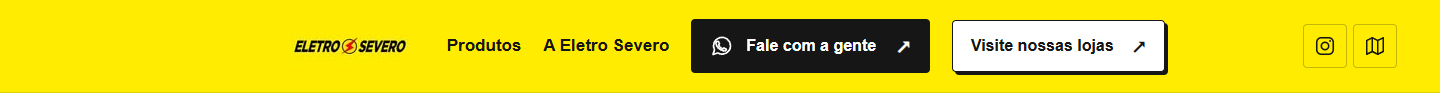
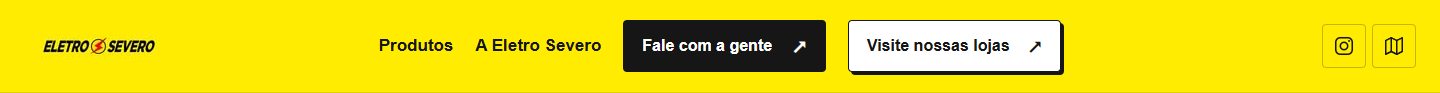
fix: ajusta cabecalho e antecipa apresentacao da loja

diff --git a/eletrosevero/index.html b/eletrosevero/index.html
@@ -21,12 +21,12 @@
   <a class="skip-link" href="#produtos">Pular para o catálogo</a>
   <header class="site-header">
     <div class="container header-inner">
+      <a class="logo" href="#inicio" aria-label="Eletro Severo — início"><img src="./assets/logo-original.png" width="150" height="150" alt="Eletro Severo"></a>
       <div class="header-main">
-        <a class="logo" href="#inicio" aria-label="Eletro Severo — início"><img src="./assets/logo-original.png" width="150" height="150" alt="Eletro Severo"></a>
         <button class="menu-toggle" aria-expanded="false" aria-controls="main-nav" aria-label="Menu">Menu <span aria-hidden="true">☰</span></button>
         <nav id="main-nav" aria-label="Navegação principal">
           <a href="#produtos">Produtos</a><a href="#sobre">A Eletro Severo</a>
-          <a class="button button-dark header-contact" data-whatsapp href="https://wa.me/5518998013291"><svg viewBox="0 0 24 24" aria-hidden="true" focusable="false"><path d="M20.5 11.6a8.5 8.5 0 0 1-12.7 7.4L3 20.5l1.5-4.7a8.5 8.5 0 1 1 16-4.2Z"/><path d="m8.2 7.2 1.3 2.5-1 1.2a8.8 8.8 0 0 0 4.2 4.1l1.1-1.1 2.6 1.3c-.2 1.5-1.2 2-2.5 1.8-4-.7-7.4-4.1-8-7.4-.2-1.2.6-2.2 2.3-2.4Z"/></svg> Fale com a gente <span aria-hidden="true">↗</span></a>
+          <a class="button button-dark header-contact" data-whatsapp href="https://wa.me/5518998013291">Fale com a gente <span aria-hidden="true">↗</span></a>
         </nav>
         <a class="button header-stores" href="#lojas">Visite nossas lojas <span aria-hidden="true">↗</span></a>
       </div>
@@ -56,7 +56,7 @@
         </div>
       </div>
     </section>
-    <div class="department-strip"><div class="container"><span>Para construir.</span><span>Para reformar.</span><span>Para cuidar da sua casa.</span><span class="strip-arrow" aria-hidden="true">↘</span></div></div>
+    <section class="about-section" id="sobre" aria-labelledby="about-title"><div class="container about-inner"><div><p class="section-label">A Eletro Severo</p><h2 id="about-title"></h2></div><div class="about-copy" id="about-copy"></div></div></section>
     <section class="catalog-section container" id="produtos" aria-labelledby="catalog-title">
       <div class="section-heading"><div><p class="section-label">Encontre o que sua obra precisa</p><h2 id="catalog-title">Nosso catálogo<span class="title-dot">.</span></h2></div><p class="heading-note">Uma seleção para conhecer.<br>Preços e disponibilidade, direto com a loja.</p></div>
       <div class="catalog-layout">
@@ -71,7 +71,6 @@
         </div>
       </div>
     </section>
-    <section class="about-section" id="sobre" aria-labelledby="about-title"><div class="container about-inner"><div><p class="section-label">A Eletro Severo</p><h2 id="about-title"></h2></div><div class="about-copy" id="about-copy"></div></div></section>
     <section class="stores-section container" id="lojas" aria-labelledby="stores-title"><div class="section-heading"><div><p class="section-label">Perto de você</p><h2 id="stores-title">Passe em uma<br>das nossas lojas<span class="title-dot">.</span></h2></div><p class="heading-note">Duas lojas em Álvares Machado.<br>Escolha a melhor rota para sua visita.</p></div><div id="stores" class="stores-grid"></div></section>
     <section class="contact-section"><div class="container contact-inner"><div><p>Precisa de uma mão para escolher?</p><h2>Vamos conversar.</h2></div><a class="button button-dark" data-whatsapp href="https://wa.me/5518998013291">Chamar no WhatsApp <span aria-hidden="true">↗</span></a></div></section>
   </main>

diff --git a/eletrosevero/styles.css b/eletrosevero/styles.css
@@ -271,29 +271,6 @@ button:focus-visible,a:focus-visible,input:focus-visible{
   font-size:14px;
   color:#353523
 }
-.department-strip{
-  background:var(--ink);
-  color:white
-}
-.department-strip .container{
-  display:flex;
-  justify-content:space-between;
-  align-items:center;
-  gap:20px;
-  min-height:68px;
-  font-size:18px;
-  font-weight:700
-}
-.department-strip span:nth-child(2){
-  color:#bcbcb4
-}
-.department-strip span:nth-child(3){
-  color:#e1e1d7
-}
-.strip-arrow{
-  color:var(--yellow);
-  font-size:30px
-}
 .catalog-section{
   padding-block:80px 72px
 }
@@ -1025,18 +1002,10 @@ body:has(dialog[open]){
   .display-grid{
     background-size:30px 30px
   }
-  .department-strip .container{
-    min-height:52px;
-    font-size:14px;
-    gap:12px
-  }
-  .department-strip span:nth-child(2){
+.department-strip span:nth-child(2){
     display:none
   }
-  .strip-arrow{
-    font-size:22px
-  }
-  .catalog-section{
+.catalog-section{
     padding-block:48px
   }
   .section-heading{
@@ -1391,7 +1360,6 @@ dialog::backdrop { background:#161616b3; backdrop-filter:blur(3px); }
 .header-main { grid-column:2; display:flex; align-items:center; gap:22px; }
 .site-header nav { margin:0; gap:22px; white-space:nowrap; }
 .header-contact { gap:12px; padding:14px 18px; font-size:16px; }
-.header-contact svg { width:24px; height:24px; flex:none; }
 .header-contact>span { margin-left:8px; }
 .header-stores { font-size:16px; padding:14px 18px; gap:18px; white-space:nowrap; }
 .header-social { grid-column:3; justify-self:end; display:flex; align-items:center; gap:6px; }
@@ -1414,3 +1382,7 @@ dialog::backdrop { background:#161616b3; backdrop-filter:blur(3px); }
   .site-header nav>a:not(.button) { display:block; padding:12px; }
   .site-header nav .button { margin-top:8px; }
 }
+
+.site-header .header-inner { padding-inline:24px; }
+.site-header .logo { grid-column:1; justify-self:start; }
+@media (max-width:700px) { .site-header .header-inner { padding-inline:20px; } }

diff --git a/eletrosevero/DESIGN_BRIEF.md b/eletrosevero/DESIGN_BRIEF.md
@@ -99,3 +99,7 @@ Disponibilidade é um campo nos dados, com dois itens indisponíveis de exemplo.
 ## Revisão solicitada: catálogo e fotografia
 
 Catálogo aproveita a largura da tela até 1800 px; departamentos permanecem à esquerda no desktop. Produtos têm fotos maiores, títulos de 23–24 px e descrição de 16 px. No celular, uma coluna prioriza leitura e fotografia, mantendo departamentos acessíveis em faixa rolável. Modal amplo com descrição, aplicações, seis campos técnicos de exemplo e consulta contextual pelo WhatsApp. Fotos de referência dos fabricantes substituem desenhos SVG; uma publicação fornece a imagem da janela por enquadramento em CSS. Avisos de protótipo e horários/estados de estoque fictícios foram retirados da interface. Stack existente preservada, sem instalação de dependências.
+
+### Composição revisada conforme feedback
+
+A apresentação institucional antecede o catálogo e introduz os departamentos. Eliminada a faixa curta de slogans redundante. Cabeçalho com logo à esquerda, navegação centralizada e Instagram/Maps à direita; contato textual com seta, sem ícone de WhatsApp.

diff --git a/eletrosevero/docs/VALIDATION.md b/eletrosevero/docs/VALIDATION.md
@@ -27,3 +27,9 @@ Links de fonte e avisos de fotos de referência removidos do catálogo e do moda
 - Instagram aponta ao perfil da empresa. Maps usa a mesma consulta da unidade do Centro (Rua Fernando Costa, 168), definida em data/content.js. Nomes acessíveis e foco visível nos links.
 - Conferidos 1440, 1280, 1100, 768 e 390 px: sem overflow e sem sobreposição; atalhos e visita às lojas continuam visíveis. Menu recolhido até 1100 px, fechamento ao retornar ao desktop.
 - 14 cenários Playwright aprovados, console sem erros e screenshots do cabeçalho desktop/mobile revisados.
+
+## Ordem das seções e ajuste do cabeçalho
+
+- Apresentação A Eletro Severo movida para antes do catálogo. Faixa curta de slogans removida para não duplicar a transição. Capturas desktop e mobile revisadas.
+- Ícone do WhatsApp retirado do cabeçalho; texto e seta preservados. Logo alinhada à esquerda, com margem de 24 px no desktop e 20 px no celular. Navegação centralizada e atalhos à direita mantidos.
+- 14 cenários Playwright aprovados novamente, incluindo posição da logo, alinhamento e responsividade; console sem erros.
